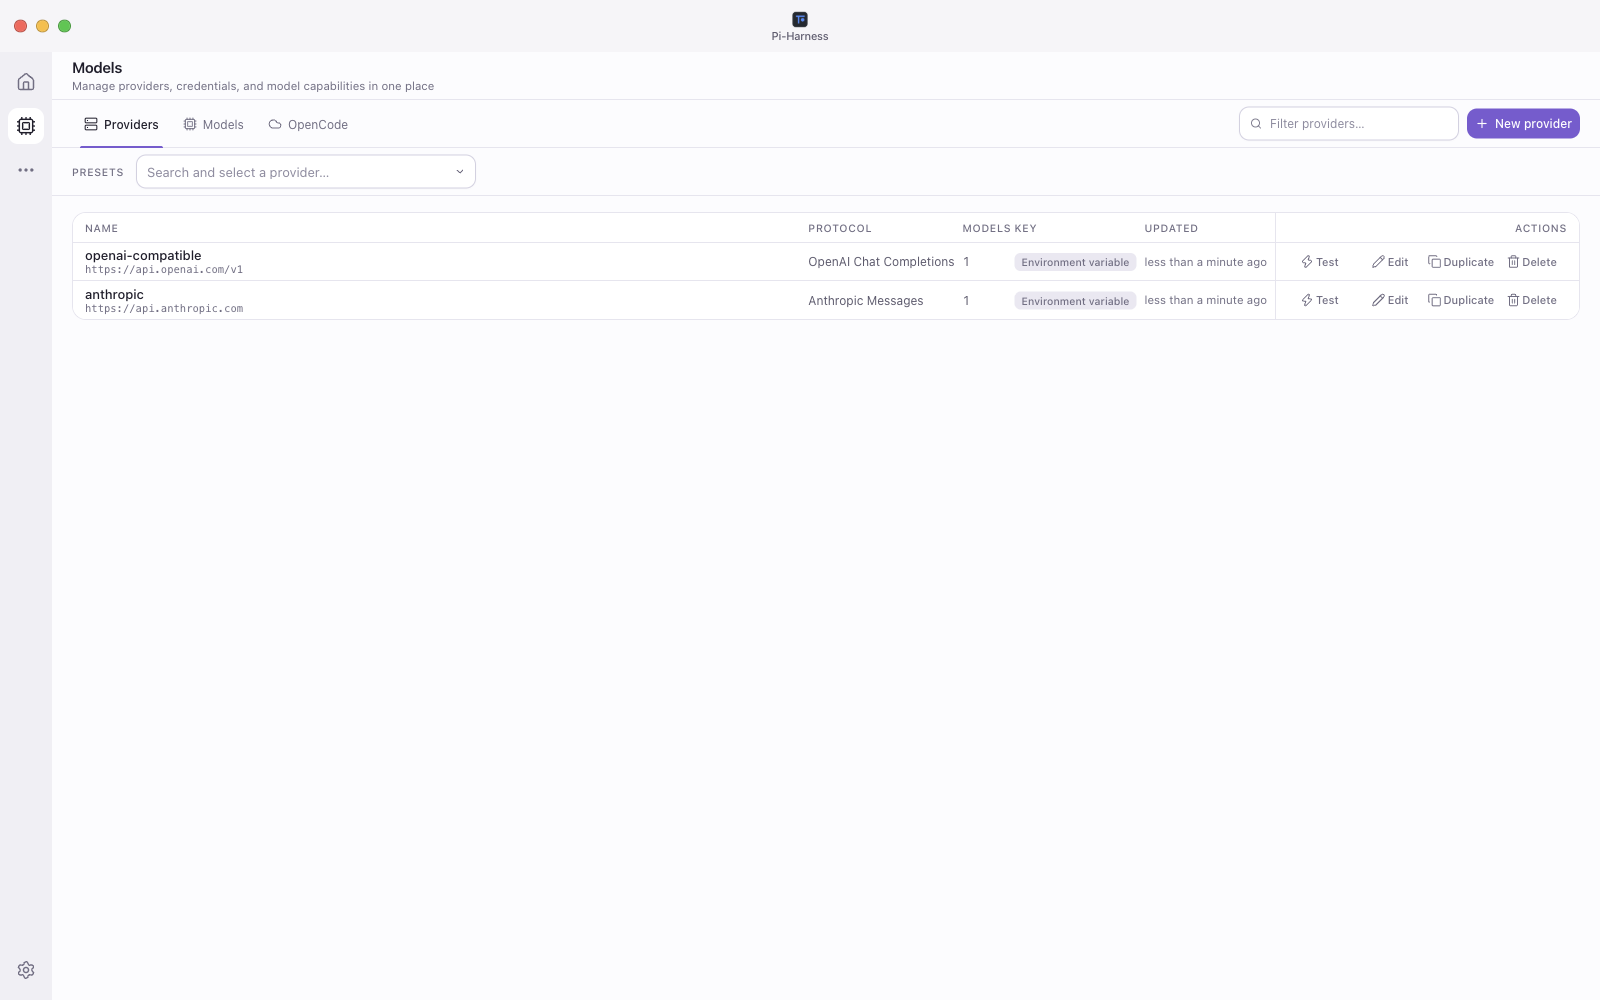
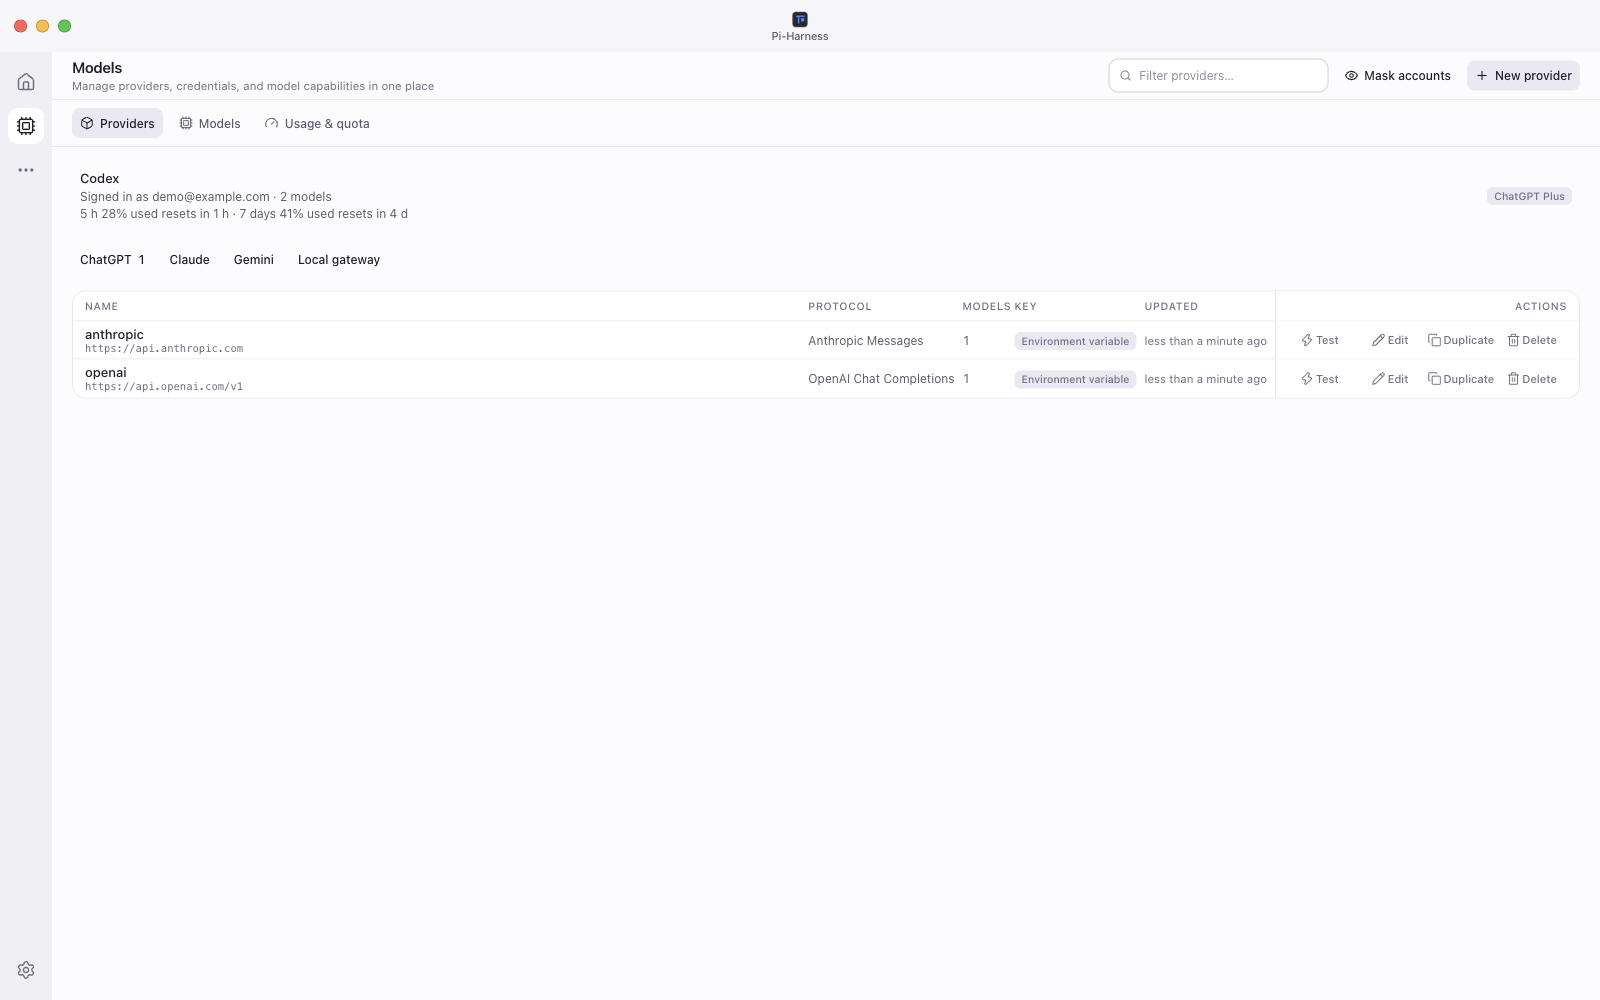
feat: document ChatGPT sign-in, free models, and community links

diff --git a/README.de-DE.md b/README.de-DE.md
@@ -107,7 +107,7 @@ chmod +x "./Pi-Harness-VERSION.AppImage"   # VERSION durch die heruntergeladene 
 
 **2 · Umgebung prüfen.** Starte Pi-Harness und prüfe die Umgebung in der Übersicht.
 
-**3 · Anbieter hinzufügen.** Richte einen Anbieter ein, teste die Verbindung und wähle ein Modell. Der Modellzugriff kann Zugangsdaten erfordern und Kosten beim Anbieter verursachen.
+**3 · Modell auswählen.** Öffne **Free Models** in der Modellauswahl im Chat, um Kilo auszuprobieren. Für dein ChatGPT-Abonnement öffne **Modelle → Neuer Anbieter → ChatGPT** und melde dich im Browser an. Du kannst einen Anbieter auch mit einem API-Schlüssel einrichten.
 
 **4 · Loslegen.** Starte einen eigenständigen Chat oder öffne ein Projekt, starte oder setze dann eine Pi-Sitzung fort und arbeite mit Chats, Dateien und Git in einem Fenster. Öffne **Arbeitsbereich → Werkzeuge → Harness / Agenten**, um Ausführungen zu prüfen oder ein Team zu koordinieren.
 
@@ -281,6 +281,8 @@ Durchsuche gemeinsam die Verläufe von Claude Code, Codex (einschließlich Deskt
 | | |
 | :-- | :-- |
 | **Anbieter** | Richte Pi-kompatible Anbieter mit Vorlagen oder eigenen Endpunkten ein, verwalte Zugangsdaten, lade Modelllisten, wo unterstützt, teste Verbindungen und wähle dein Chatmodell |
+| **Mit ChatGPT anmelden** | Verbinde dein ChatGPT-Abonnement im Browser und wähle die Modelle des Kontos im Chat aus. Auf der Anbieterseite siehst du das verbundene Konto, den Tarif und verfügbare Nutzungsdaten. |
+| **Kostenlose Modelle** | Wähle ein Kilo-Modell direkt in der Modellauswahl im Chat. Ein Konto oder API-Schlüssel ist nicht erforderlich. Verfügbarkeit und Nutzungslimits hängen von Kilo ab. Bei der ersten Auswahl erscheint ein Datenschutzhinweis. |
 | **Bilder** | Nutze unterstützte Bildmodelle, um Bilder aus Text zu erzeugen oder zu bearbeiten, und lade die Ergebnisse herunter |
 | **Skills** | Durchsuche und bearbeite integrierte und lokale Skills. Gib `@` im Eingabefeld ein, um einen installierten Skill zu suchen und aufzurufen |
 | **Pakete und Erweiterungen** | Verwalte Pi-Pakete und Erweiterungen unter Fähigkeiten. Optionale Ergänzungen wie [Superpowers](https://github.com/obra/superpowers) werden nur auf deinen Wunsch installiert, aktualisiert oder deinstalliert |
@@ -289,6 +291,10 @@ Durchsuche gemeinsam die Verläufe von Claude Code, Codex (einschließlich Deskt
 <tr>
 <td width="50%"><img src="docs/%E5%8A%9F%E8%83%BD%E7%95%8C%E9%9D%A2/%E7%BB%8F%E5%85%B8%E4%B8%BB%E9%A2%98/Provider%E4%B8%8E%E6%A8%A1%E5%9E%8B-1.png" alt="Anbieter und Modelle"><br><sub>Anbieter und Modelle</sub></td>
 <td width="50%"><img src="docs/%E5%8A%9F%E8%83%BD%E7%95%8C%E9%9D%A2/%E7%BB%8F%E5%85%B8%E4%B8%BB%E9%A2%98/%E8%83%BD%E5%8A%9B%E4%B8%AD%E5%BF%83-1.png" alt="Fähigkeiten"><br><sub>Fähigkeiten</sub></td>
+</tr>
+<tr>
+<td width="50%"><img src="docs/%E5%8A%9F%E8%83%BD%E7%95%8C%E9%9D%A2/%E7%BB%8F%E5%85%B8%E4%B8%BB%E9%A2%98/ChatGPT%E6%8E%88%E6%9D%83.png" alt="Mit ChatGPT anmelden"><br><sub>Mit ChatGPT anmelden</sub></td>
+<td width="50%"><img src="docs/%E5%8A%9F%E8%83%BD%E7%95%8C%E9%9D%A2/%E7%BB%8F%E5%85%B8%E4%B8%BB%E9%A2%98/%E5%85%8D%E8%B4%B9%E6%A8%A1%E5%9E%8B.png" alt="Kostenlose Modelle"><br><sub>Kostenlose Modelle</sub></td>
 </tr>
 </table>
 
@@ -460,7 +466,7 @@ pnpm compile
 - **QQ-Gruppe**: pi-harness · **1109717308**. Scanne den Code, um beizutreten.
 
 <p align="center">
-  <img src="docs/社区/qq-group.jpg" width="240" alt="QR-Code der Pi-Harness-QQ-Gruppe" />
+  <img src="docs/社区/qq-group-card.jpg" width="240" alt="QR-Code der Pi-Harness-QQ-Gruppe" />
 </p>
 
 Wenn Pi-Harness dir die Arbeit mit Pi erleichtert, **hilft ein ⭐ anderen, es zu finden.**

diff --git a/docs/README.md b/docs/README.md
@@ -4,9 +4,9 @@ Browse the current Pi-Harness interface, desktop companion, themes, and communit
 
 Pi-Harness 截图按功能界面、主题展示和社区资源分类，点击图片链接可查看原图。
 
-Updated on 2026-11-03 using the current desktop UI and an isolated demo workspace.
+The provider, ChatGPT sign-in, and Free Models screenshots were refreshed on 2026-11-15 using Pi-Harness 2.4.8. The account and usage figures are examples.
 
-截图于 2026-11-03 使用当前桌面界面与独立演示工作区更新。
+提供商、ChatGPT 授权和免费模型截图于 2026-11-15 使用 Pi-Harness 2.4.8 更新。截图中的账户和用量为示例。
 
 [English](../README.md) · [简体中文](../README.zh-CN.md) · [繁體中文](../README.zh-TW.md) · [日本語](../README.ja-JP.md) · [한국어](../README.ko-KR.md) · [Русский](../README.ru-RU.md) · [Français](../README.fr-FR.md) · [Deutsch](../README.de-DE.md)
 
@@ -30,7 +30,9 @@ https://github.com/user-attachments/assets/98708766-f490-4506-a33f-f1376d41770f
 | Session cleanup / 会话清理                     | [会话清理](功能界面/经典主题/会话清理.png)                                                                                         |
 | Desktop companion / 桌面伴侣                   | [设置](功能界面/经典主题/桌宠设置.png) · [右键菜单](功能界面/经典主题/桌宠菜单.png) · [193 个动作](功能界面/经典主题/桌宠动作.png) |
 | Git                                            | [Git](功能界面/经典主题/Git.png)                                                                                                   |
-| Providers and models / Provider 与模型         | [1](功能界面/经典主题/Provider与模型-1.png) · [2](功能界面/经典主题/Provider与模型-2.png)                                          |
+| Providers and models / Provider 与模型         | [Providers / 提供商](功能界面/经典主题/Provider与模型-1.png) · [Models / 模型](功能界面/经典主题/Provider与模型-2.png)             |
+| ChatGPT sign-in / ChatGPT 授权                 | [Browser sign-in prompt / 浏览器授权提示](功能界面/经典主题/ChatGPT授权.png)                                                       |
+| Free Models / 免费模型                         | [Chat model picker / 聊天模型选择器](功能界面/经典主题/免费模型.png)                                                               |
 | Capabilities / 能力中心                        | [1](功能界面/经典主题/能力中心-1.png) · [2](功能界面/经典主题/能力中心-2.png) · [3](功能界面/经典主题/能力中心-3.png)              |
 | Harness tools / Harness 工具                   | [1](功能界面/经典主题/工具Harness-1.png) · [2](功能界面/经典主题/工具Harness-2.png)                                                |
 | Multi-Agent / 多智能体                         | [Team / 团队](功能界面/经典主题/多智能体-团队.png) · [Task dependencies / 任务依赖](功能界面/经典主题/多智能体-任务依赖.png)       |
@@ -97,7 +99,7 @@ Voice screenshots show setup and preparation before a call; MCP and remote host 
 
 | Resource / 资源  | Image / 图片                                 |
 | ---------------- | -------------------------------------------- |
-| QQ group / QQ 群 | [pi-harness · 1109717308](社区/qq-group.jpg) |
+| QQ group / QQ 群 | [pi-harness · 1109717308](社区/qq-group-card.jpg) |
 
 ## 赞助商
 

diff --git a/README.md b/README.md
@@ -107,7 +107,7 @@ chmod +x "./Pi-Harness-VERSION.AppImage"   # replace VERSION with the downloaded
 
 **2 · Check the environment.** Launch Pi-Harness and check the environment in Overview.
 
-**3 · Add a provider.** Configure a provider, test the connection and select a model. Model access may require credentials and incur provider charges.
+**3 · Choose a model.** Open **Free Models** in the chat model picker to try Kilo. To use your ChatGPT subscription, open **Models → New provider → ChatGPT** and sign in through your browser. You can also configure a provider with an API key.
 
 **4 · Start working.** Start a standalone chat or open a project, then start or resume a Pi session and work with conversations, files and Git in one window. Open **Workspace → Tools → Harness / Agents** to inspect runs or coordinate a team.
 
@@ -281,6 +281,8 @@ Open Architecture in Workspace to explore modules, dependencies, entrypoints and
 | | |
 | :-- | :-- |
 | **Providers** | Configure Pi-compatible providers with presets or custom endpoints, manage credentials, discover models where supported, test connections and choose your chat model |
+| **Sign in with ChatGPT** | Connect your ChatGPT subscription in the browser and choose its models in chat. The Providers page shows the connected account, plan and usage when available. |
+| **Free Models** | Choose a Kilo model directly in the chat model picker. No account or API key is required. Availability and limits depend on Kilo. The first selection shows a privacy notice. |
 | **Images** | Use supported image models for text-to-image or image editing, then download the results |
 | **Skills** | Browse built-in and local Skills and edit them. Type `@` in the composer to search and invoke an installed Skill |
 | **Packages and extensions** | Manage Pi packages and extensions from Capabilities. Optional add-ons such as [Superpowers](https://github.com/obra/superpowers) install, update or uninstall only when you choose |
@@ -289,6 +291,10 @@ Open Architecture in Workspace to explore modules, dependencies, entrypoints and
 <tr>
 <td width="50%"><img src="docs/%E5%8A%9F%E8%83%BD%E7%95%8C%E9%9D%A2/%E7%BB%8F%E5%85%B8%E4%B8%BB%E9%A2%98/Provider%E4%B8%8E%E6%A8%A1%E5%9E%8B-1.png" alt="Providers and models"><br><sub>Providers and models</sub></td>
 <td width="50%"><img src="docs/%E5%8A%9F%E8%83%BD%E7%95%8C%E9%9D%A2/%E7%BB%8F%E5%85%B8%E4%B8%BB%E9%A2%98/%E8%83%BD%E5%8A%9B%E4%B8%AD%E5%BF%83-1.png" alt="Capabilities"><br><sub>Capabilities</sub></td>
+</tr>
+<tr>
+<td width="50%"><img src="docs/%E5%8A%9F%E8%83%BD%E7%95%8C%E9%9D%A2/%E7%BB%8F%E5%85%B8%E4%B8%BB%E9%A2%98/ChatGPT%E6%8E%88%E6%9D%83.png" alt="Sign in with ChatGPT"><br><sub>Sign in with ChatGPT</sub></td>
+<td width="50%"><img src="docs/%E5%8A%9F%E8%83%BD%E7%95%8C%E9%9D%A2/%E7%BB%8F%E5%85%B8%E4%B8%BB%E9%A2%98/%E5%85%8D%E8%B4%B9%E6%A8%A1%E5%9E%8B.png" alt="Free Models"><br><sub>Free Models</sub></td>
 </tr>
 </table>
 
@@ -460,7 +466,7 @@ pnpm compile
 - **QQ group**: pi-harness · **1109717308**. Scan the code to join.
 
 <p align="center">
-  <img src="docs/社区/qq-group.jpg" width="240" alt="Pi-Harness QQ group QR code" />
+  <img src="docs/社区/qq-group-card.jpg" width="240" alt="Pi-Harness QQ group QR code" />
 </p>
 
 If Pi-Harness makes your work with Pi easier, **a ⭐ helps others find it.**
